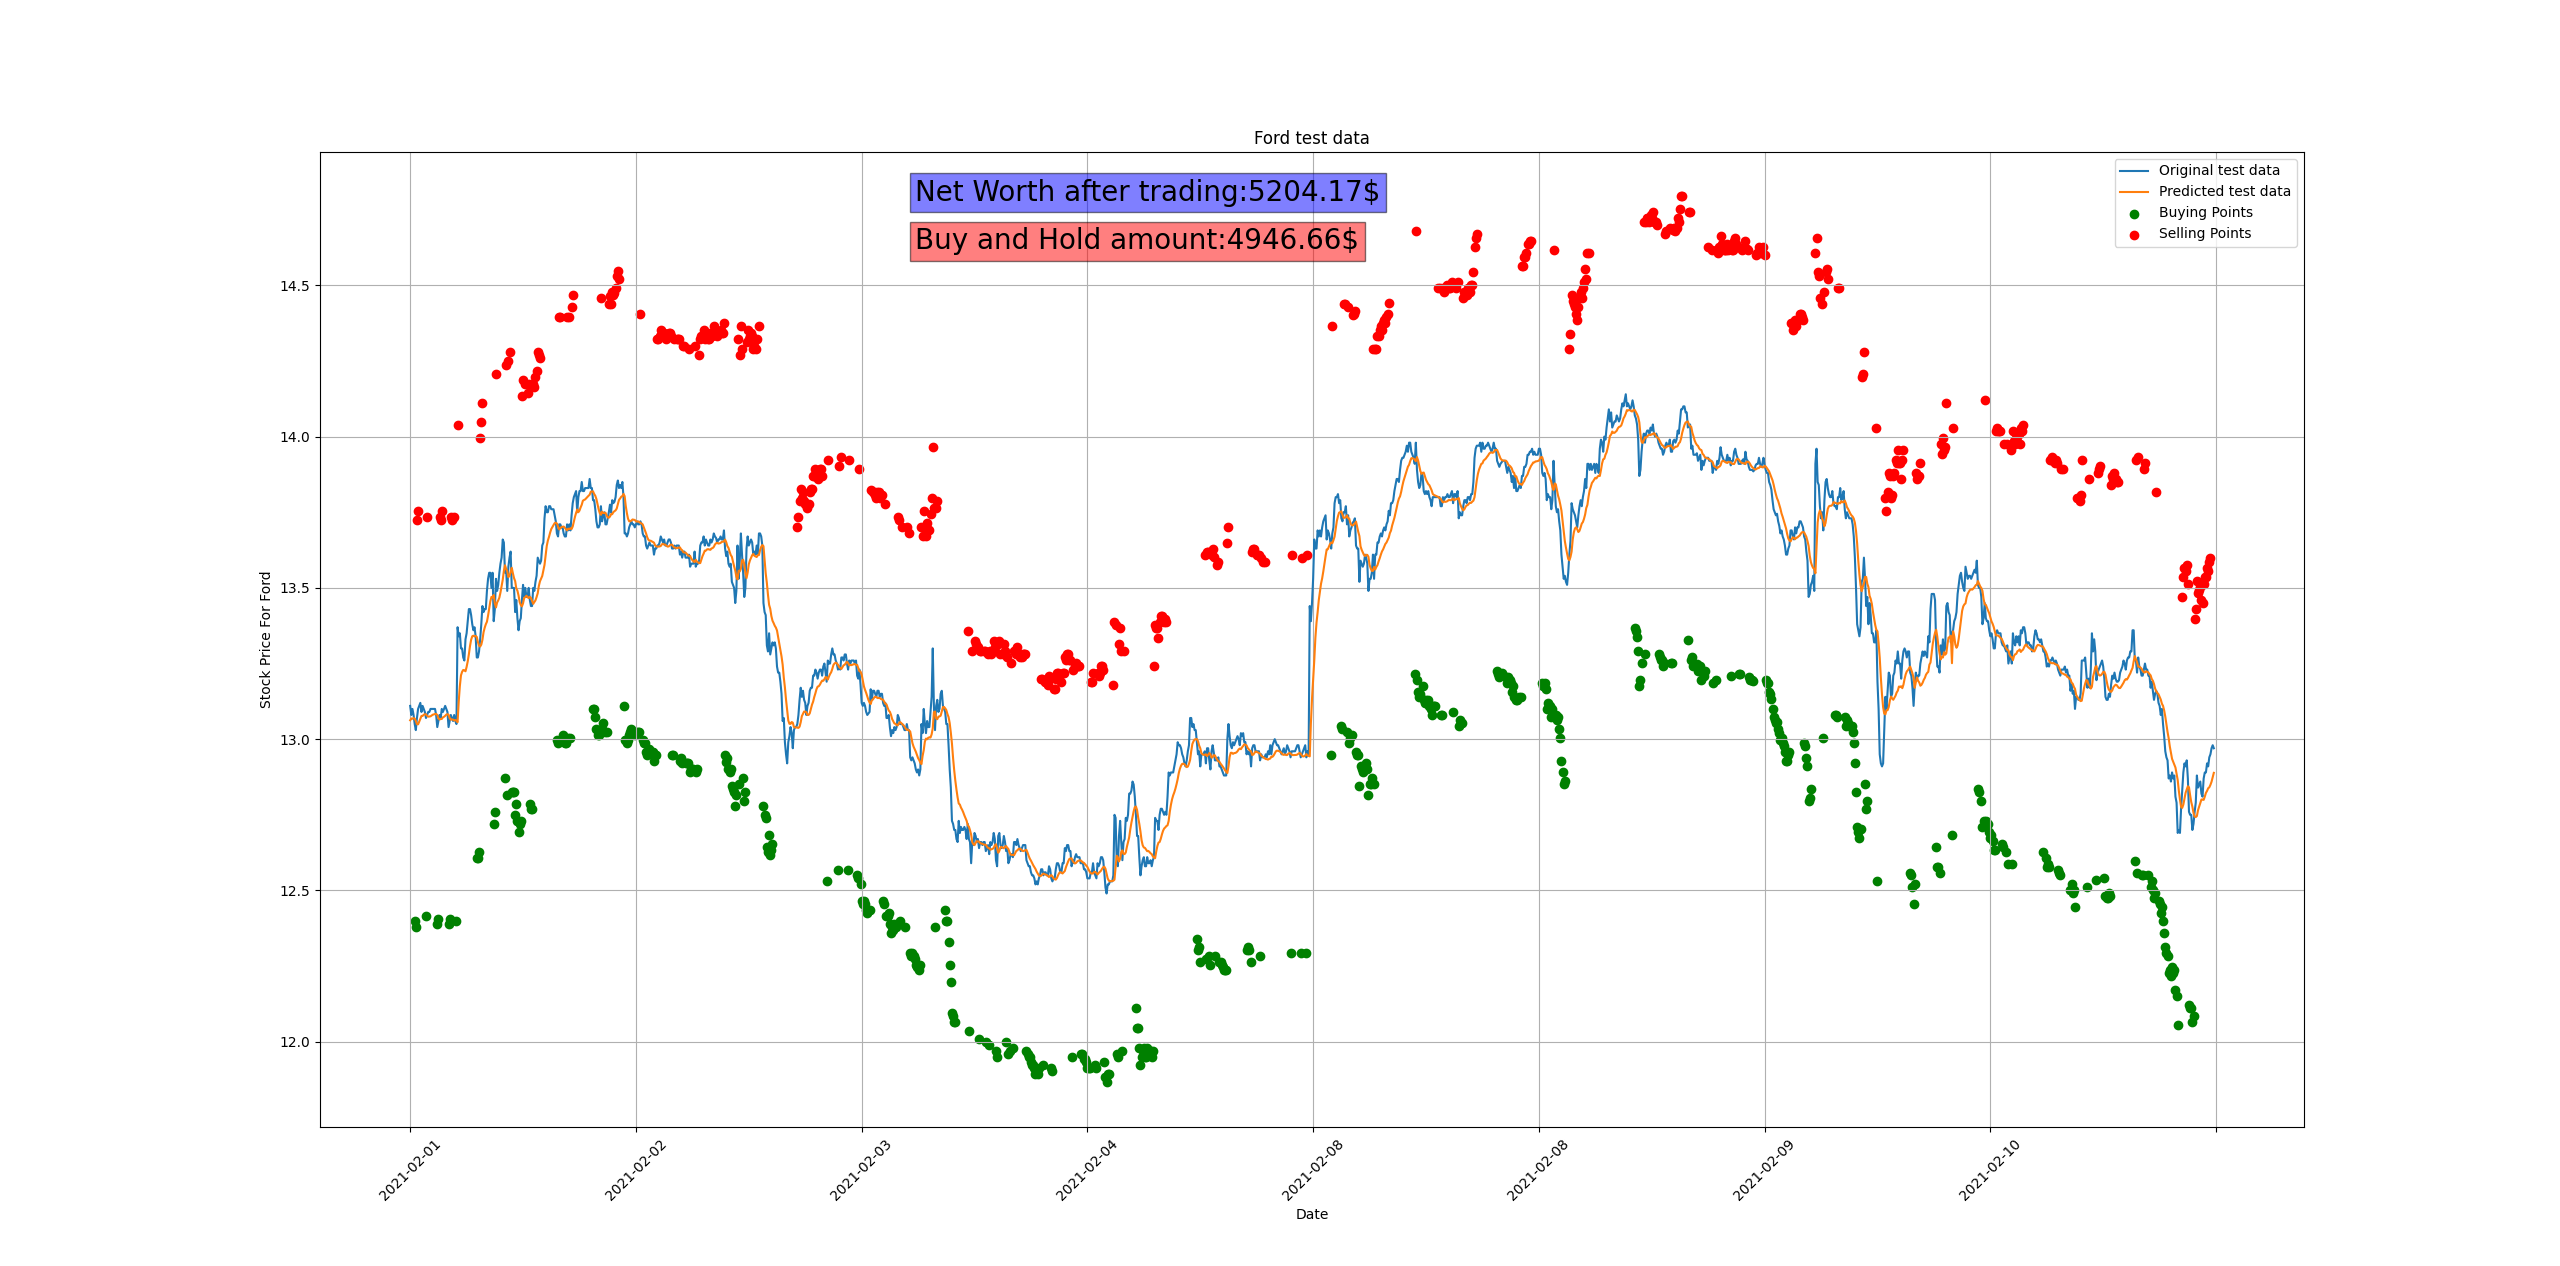
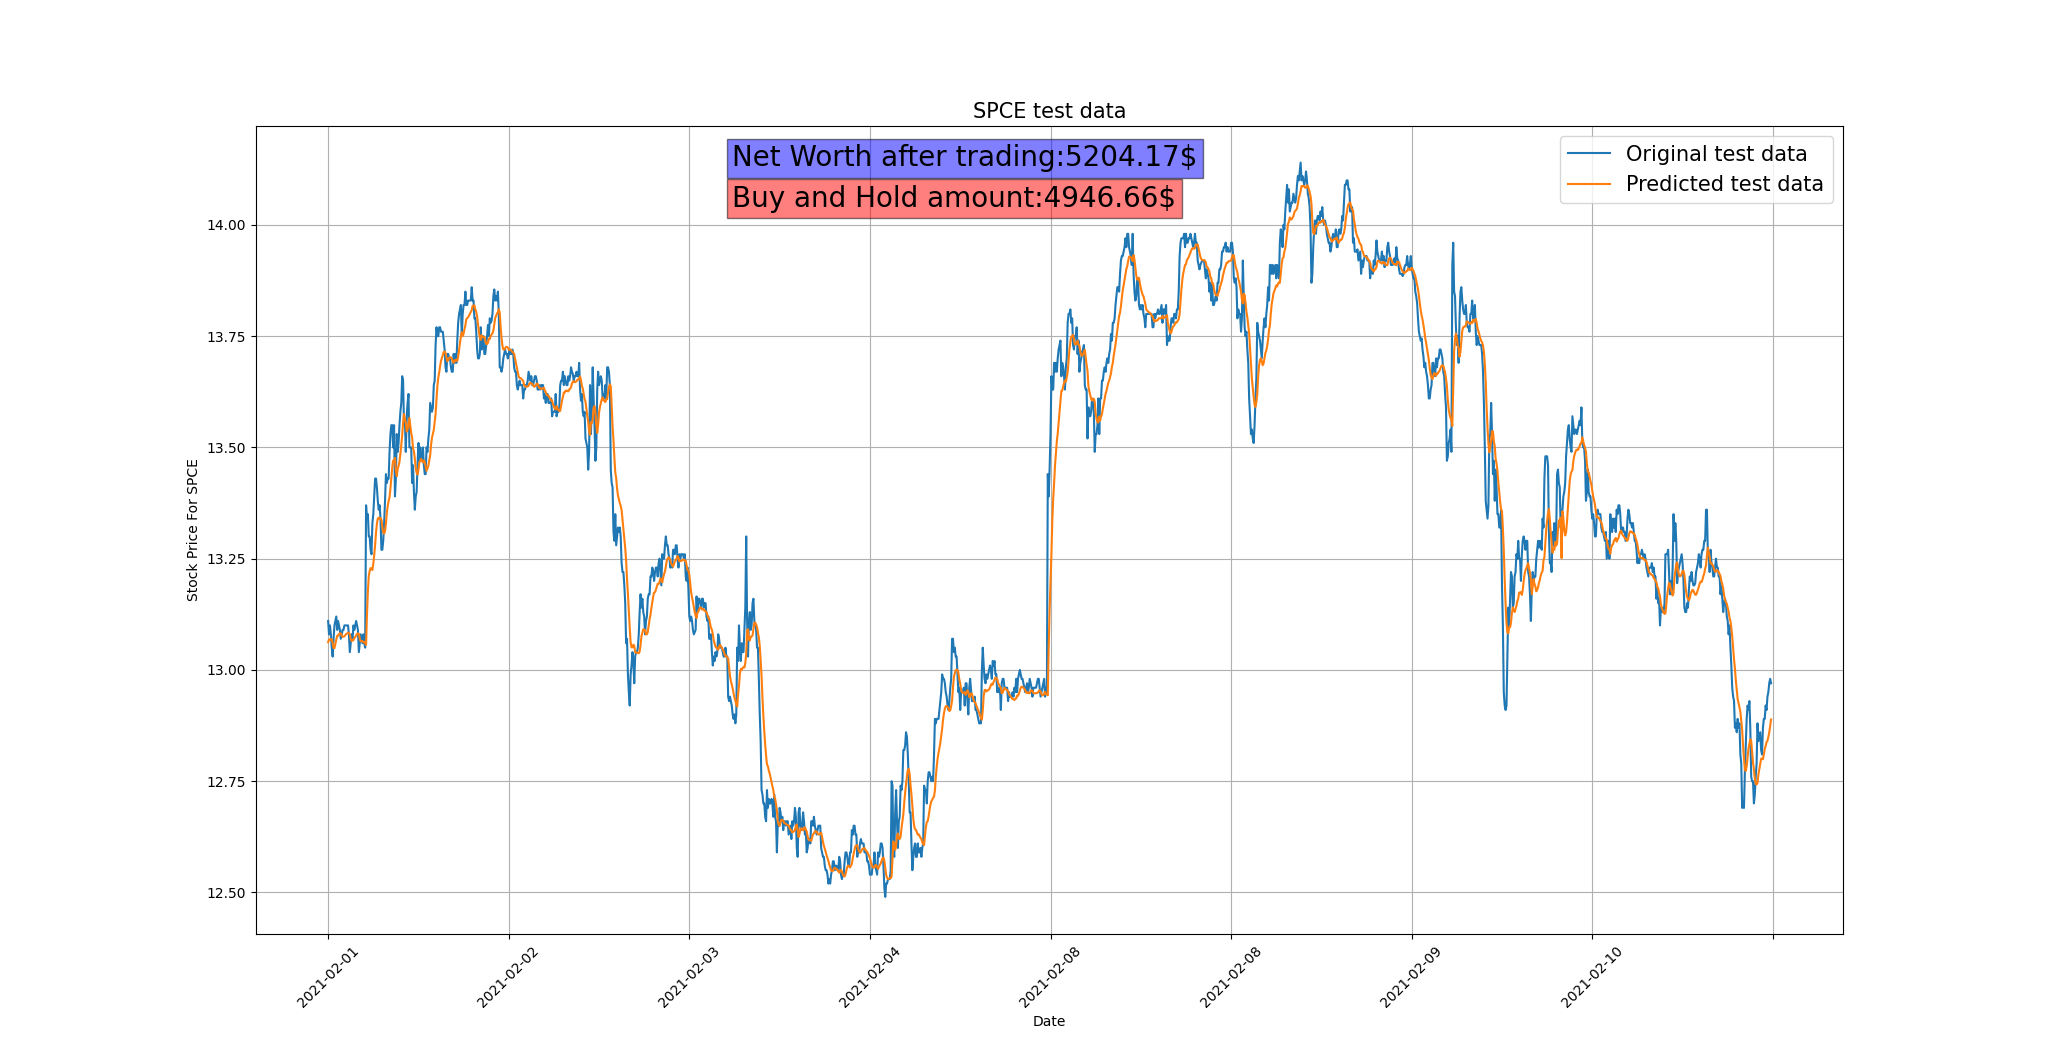
figures font changed

diff --git a/src/stock_bot.py b/src/stock_bot.py
@@ -88,8 +88,8 @@ def buying_and_selling_plt(orig, pred, threshold_buy, threshold_sell, money_star
     # plt.plot(orig['Date'].index, test_pred.values, label="Predicted test data")
     ax = orig.plot(x='Date', y='Price', label="Original test data")
     pred.plot(x='Date', y='Price', label="Predicted test data", ax= ax)
-    plt.scatter(buy_idx, buy_value * 0.95, color='green', marker='o', label="Buying Points")
-    plt.scatter(sell_idx, sell_value * 1.05, color='red', marker='o', label="Selling Points")
+    # plt.scatter(buy_idx, buy_value * 0.95, color='green', marker='o', label="Buying Points")
+    # plt.scatter(sell_idx, sell_value * 1.05, color='red', marker='o', label="Selling Points")
 
     ax.text(0.3, 0.95, "Net Worth after trading:" + str("%.2f" % money[len(money) - 1]) + "$", size=20, transform=ax.transAxes, bbox=dict(facecolor='blue', alpha=0.5))
     ax.text(0.3, 0.90,"Buy and Hold amount:" + str("%.2f" % buy_and_hold) + "$", transform=ax.transAxes, size= 20, bbox=dict(facecolor='red', alpha=0.5))
@@ -97,10 +97,10 @@ def buying_and_selling_plt(orig, pred, threshold_buy, threshold_sell, money_star
     # plt.ylim(0)  # sets the y axis min to zero
     # plt.xlim(0, 100)  # sets the y axis min to zero
     plt.xticks(rotation=45, fontsize=10)  # rotates the x axis ticks 90 degress and font size 10
-    plt.title('Ford test data')  # prints the title on the top
-    plt.ylabel('Stock Price For Ford')  # labels y axis
+    plt.title('SPCE test data', fontsize=15)  # prints the title on the top
+    plt.ylabel('Stock Price For SPCE',fontsize=10)  # labels y axis
     plt.xlabel('Date')  # labels x axis
-    plt.legend()
+    plt.legend(fontsize=15)
     plt.show()
 
 ## includes animation
@@ -115,8 +115,6 @@ def money_over_time_plt(orig, pred, threshold_buy, threshold_sell, money_start):
     bot_df['Date'] = orig['Date']
 
     fig, (ax1, ax2) = plt.subplots(2, 1)
-
-
     ax1.set_title('Money over time',  fontsize=18)
     ax1.set_xlabel('Minutes', fontsize=15)
     ax1.set_ylabel('Net worth in $', fontsize=15)
@@ -124,11 +122,20 @@ def money_over_time_plt(orig, pred, threshold_buy, threshold_sell, money_start):
 
     ax2.set_title('Stock over time', fontsize=18)
     ax2.set_ylabel('Stock Value in $', fontsize=15)
-    ax2.set_xlabel('Minutes', fontsize=15)
+
+    ax1.set_title('Money over time',fontsize=15)
+    ax1.set_xlabel('Minutes',fontsize=10)
+    ax1.set_ylabel('Net worth in $',fontsize=10)
+    ax1_text = ax1.text(0.3, 0.5, '', transform=ax1.transAxes, size=20, bbox=dict(facecolor='red', alpha=0.3))
+
+    ax2.set_title('Stock over time', fontsize=15)
+    ax2.set_ylabel('Stock Value in $', fontsize=10)
+    ax2.set_xlabel('Minutes', fontsize=10)
+
     ax2_text = ax2.text(0.3, -0.5, '', transform=ax1.transAxes, size=20, bbox=dict(facecolor='red', alpha=0.3))
 
     def update_money(i=int):
-        ax1.legend(["net worth"])
+        ax1.legend(["net worth"],fontsize=10)
         plt.sca(ax1)
         ax1_text.set_text("Current Net worth:" + "%.2f" % bot_df['Money'][i])
         # ax1.scatter(buy_idx[:i], buy_value[:i] , color='green', marker='o', label="Buying Points")
@@ -138,7 +145,7 @@ def money_over_time_plt(orig, pred, threshold_buy, threshold_sell, money_start):
         p[0].set_color('r')  # set the colour of each curve
 
     def update_stock(i=int):
-        ax2.legend(["Stock Value"])
+        ax2.legend(["Stock Value"],fontsize=10)
         plt.sca(ax2)
         ax2_text.set_text("Current Stock Value:" + "%.2f" % bot_df['Stock'][i])
         plt.xticks(rotation=45, fontsize=10)  # rotates the x axis ticks 90 degress and font size 10
@@ -158,6 +165,11 @@ def money_over_time_plt(orig, pred, threshold_buy, threshold_sell, money_start):
     animator = ani.FuncAnimation(fig, update_all, frames=frames , interval=40, repeat=False, blit=False)
     mng = plt.get_current_fig_manager()
     mng.full_screen_toggle()
+
+    # plt.rcParams["animation.convert_path"] = "C:\ProgramFiles\IImageMagick-7.1.0-Q16-HDRI\convert"
+    #
+    # animator.save(filename="gif.gif" , writer='imagemagick')
+
     plt.show()
 
 def outcome_of_transactions_plt(orig, pred, threshold_buy, threshold_sell, money_start):
@@ -188,10 +200,10 @@ def outcome_of_transactions_plt(orig, pred, threshold_buy, threshold_sell, money
 
     plt.grid(True)  # turns on axis grid
     plt.xticks(rotation=45, fontsize=10)  # rotates the x axis ticks 90 degress and font size 10
-    plt.title('Outcome of each buying and selling Desicion')  # prints the title on the top
-    plt.ylabel('Percent of positive/negative impact')  # labels y axis
-    plt.xlabel('Minutes')  # labels x axis
-    plt.legend()
+    plt.title('Outcome of each buying and selling Desicion', fontsize=15 )  # prints the title on the top
+    plt.ylabel('Percent of positive/negative impact', fontsize=15)  # labels y axis
+    plt.xlabel('Minutes',fontsize=15)  # labels x axis
+    plt.legend(fontsize=10)
     plt.show()
 
 
